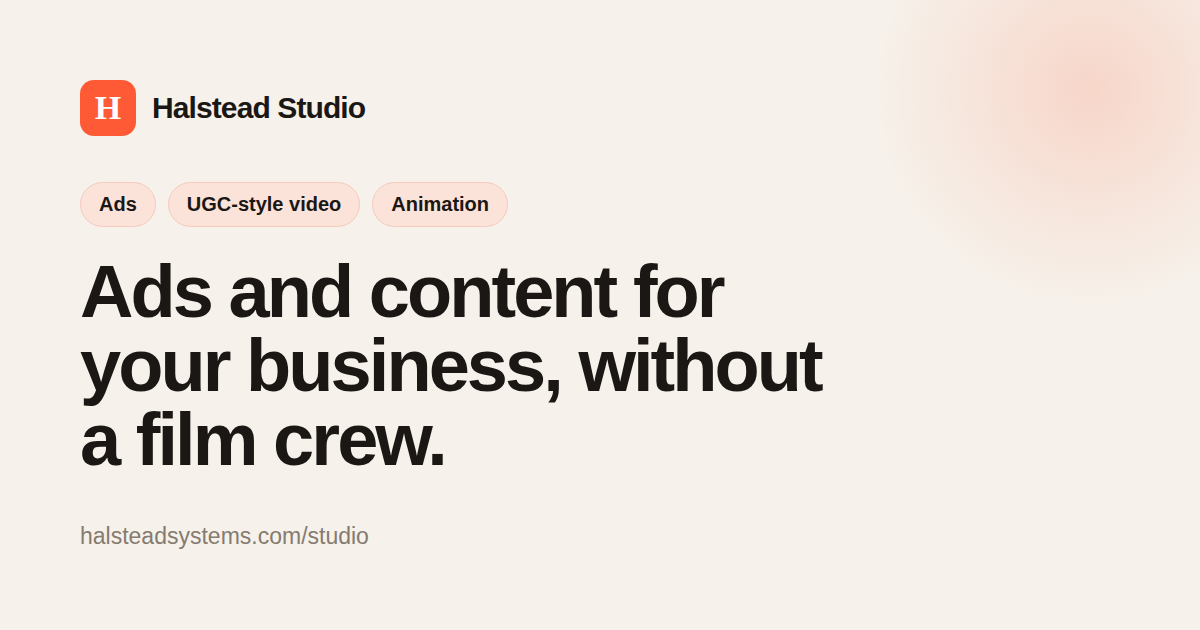
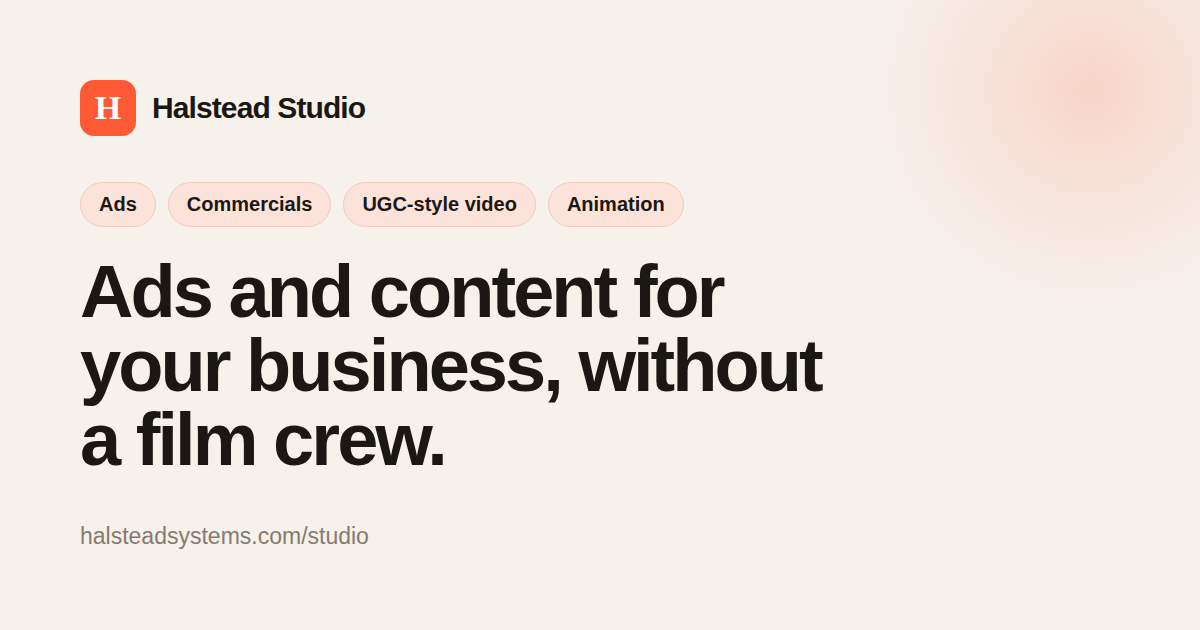
Studio: align title, meta, and preview image with the hero
- Update <title>, description, og/twitter title+description to match the
  current hero headline and offerings (ads, commercials, UGC-style videos,
  short animations); reference the free sample video
- Regenerate og-studio.png with a Commercials pill
- og:image alt already matched the hero headline

Claude-Session: https://claude.ai/code/session_01DvAPxfjcGks88dePxZEgZs

Changed region(s): [[0.1542, 0.3016, 0.4317, 0.3619], [0.4625, 0.3016, 0.555, 0.3619]]

diff --git a/studio/index.html b/studio/index.html
@@ -3,8 +3,8 @@
 <head>
 <meta charset="utf-8">
 <meta name="viewport" content="width=device-width, initial-scale=1">
-<title>AI ad and video content | Halstead Studio</title>
-<meta name="description" content="Ad creative, UGC-style videos, and animations for your business, made with AI and directed by a person. Get a free sample made from your website.">
+<title>Ads and content for your business | Halstead Studio</title>
+<meta name="description" content="We make ads, commercials, UGC-style videos and short animations, built from your brand, your products and your website. Get a free sample video.">
 <link rel="canonical" href="https://halsteadsystems.com/studio">
 <meta name="robots" content="index, follow, max-image-preview:large">
 <meta name="theme-color" content="#F6F1EA">
@@ -12,16 +12,16 @@
 <meta property="og:type" content="website">
 <meta property="og:site_name" content="Halstead Studio">
 <meta property="og:locale" content="en_US">
-<meta property="og:title" content="AI ad and video content | Halstead Studio">
-<meta property="og:description" content="Ad creative, UGC-style videos, and animations for your business, made with AI and directed by a person. Get a free sample made from your website.">
+<meta property="og:title" content="Ads and content for your business | Halstead Studio">
+<meta property="og:description" content="We make ads, commercials, UGC-style videos and short animations, built from your brand, your products and your website. Get a free sample video.">
 <meta property="og:url" content="https://halsteadsystems.com/studio">
 <meta property="og:image" content="https://halsteadsystems.com/og-studio.png">
 <meta property="og:image:width" content="1200">
 <meta property="og:image:height" content="630">
 <meta property="og:image:alt" content="Halstead Studio. Ads and content for your business, without a film crew.">
 <meta name="twitter:card" content="summary_large_image">
-<meta name="twitter:title" content="AI ad and video content | Halstead Studio">
-<meta name="twitter:description" content="Ad creative, UGC-style videos, and animations for your business, made with AI and directed by a person. Get a free sample made from your website.">
+<meta name="twitter:title" content="Ads and content for your business | Halstead Studio">
+<meta name="twitter:description" content="We make ads, commercials, UGC-style videos and short animations, built from your brand, your products and your website. Get a free sample video.">
 <meta name="twitter:image" content="https://halsteadsystems.com/og-studio.png">
 <meta name="twitter:image:alt" content="Halstead Studio. Ads and content for your business, without a film crew.">
 
